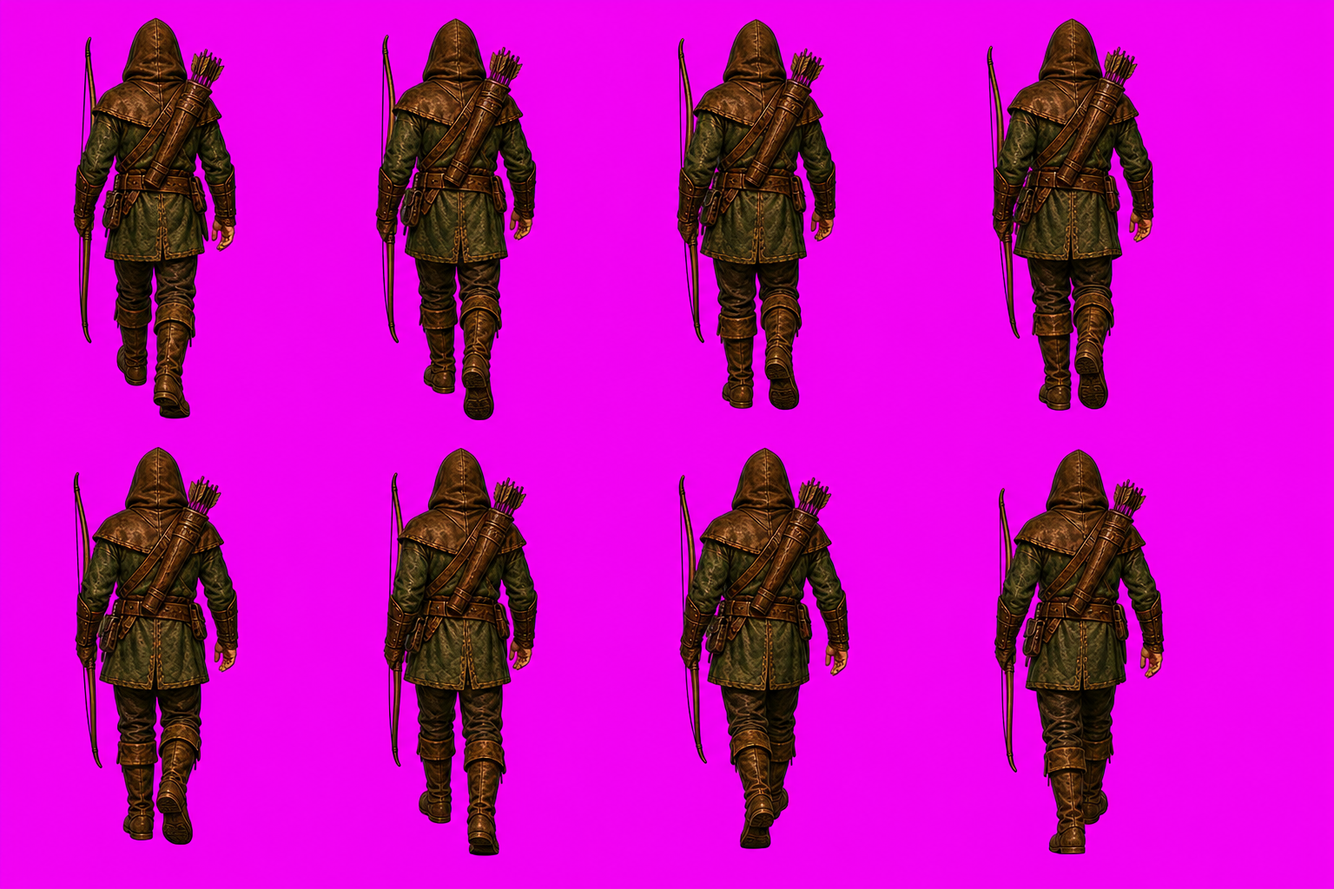
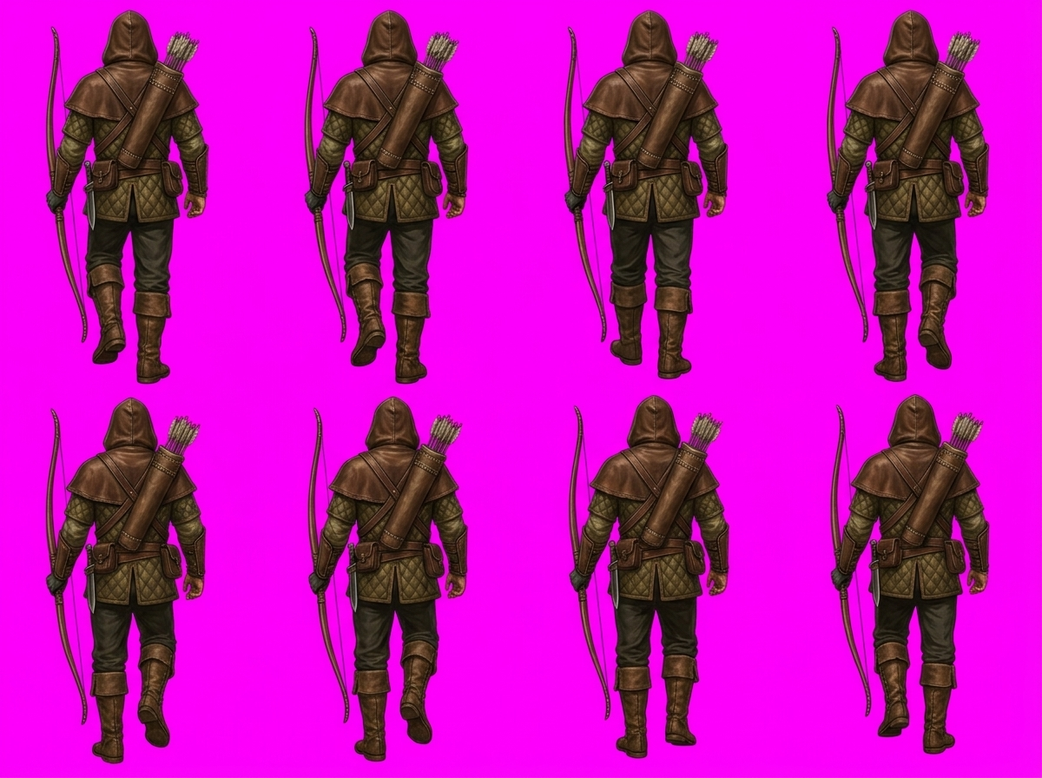
Dungeon crawler v78: the hunter repainted with a real stride; stride_check tool; skill notes
Claude-Session: https://claude.ai/code/session_01NpeYVwYy5uGAXmDhbForw5

diff --git a/martin/dungeon-crawler-01/catalog.html b/martin/dungeon-crawler-01/catalog.html
@@ -150,7 +150,7 @@
 </main>
 <footer id="footer"></footer>
 <script>
-const D = {"version":77,"mons":{"skeleton":{"name":"Skeleton Warrior","scale":1,"hp":26,"dmg":[3,6],"armor":5,"speed":2.71,"reach":1.1,"cd":1.2,"xp":16,"r":0.32,"minD":1,"w":3,"perDepth":[{"hp":31,"dmg":[3.6,7.2],"armor":5,"speed":2.3,"xp":16,"limit":null,"champ":false},{"hp":35,"dmg":[4,8.1],"armor":8,"speed":2.34,"xp":19,"limit":null,"champ":false},{"hp":39,"dmg":[4.5,9],"armor":11,"speed":2.37,"xp":22,"limit":null,"champ":false},{"hp":44,"dmg":[5.1,10.1],"armor":14,"speed":2.41,"xp":26,"limit":null,"champ":false},{"hp":49,"dmg":[5.7,11.3],"armor":17,"speed":2.44,"xp":30,"limit":null,"champ":true},{"hp":55,"dmg":[6.3,12.7],"armor":20,"speed":2.48,"xp":35,"limit":null,"champ":true},{"hp":62,"dmg":[7.1,14.2],"armor":23,"speed":2.51,"xp":41,"limit":null,"champ":true},{"hp":69,"dmg":[8,15.9],"armor":26,"speed":2.55,"xp":48,"limit":null,"champ":true},{"hp":77,"dmg":[8.9,17.8],"armor":29,"speed":2.58,"xp":56,"limit":null,"champ":true},{"hp":87,"dmg":[10,20],"armor":32,"speed":2.61,"xp":66,"limit":null,"champ":true},{"hp":97,"dmg":[11.2,22.4],"armor":35,"speed":2.65,"xp":77,"limit":null,"champ":true},{"hp":109,"dmg":[12.5,25],"armor":38,"speed":2.68,"xp":90,"limit":null,"champ":true}]},"ghoul":{"name":"Ghoul","scale":0.95,"hp":20,"dmg":[2,5],"armor":2,"speed":3.3,"reach":1,"cd":0.9,"xp":13,"r":0.3,"minD":1,"w":3,"perDepth":[{"hp":24,"dmg":[2.4,6],"armor":2,"speed":2.8,"xp":13,"limit":1,"champ":false},{"hp":27,"dmg":[2.7,6.7],"armor":5,"speed":2.85,"xp":15,"limit":2,"champ":false},{"hp":30,"dmg":[3,7.5],"armor":8,"speed":2.89,"xp":18,"limit":2,"champ":false},{"hp":34,"dmg":[3.4,8.4],"armor":11,"speed":2.93,"xp":21,"limit":2,"champ":false},{"hp":38,"dmg":[3.8,9.4],"armor":14,"speed":2.97,"xp":24,"limit":null,"champ":true},{"hp":42,"dmg":[4.2,10.6],"armor":17,"speed":3.02,"xp":29,"limit":null,"champ":true},{"hp":47,"dmg":[4.7,11.8],"armor":20,"speed":3.06,"xp":33,"limit":null,"champ":true},{"hp":53,"dmg":[5.3,13.3],"armor":23,"speed":3.1,"xp":39,"limit":null,"champ":true},{"hp":59,"dmg":[5.9,14.9],"armor":26,"speed":3.14,"xp":46,"limit":null,"champ":true},{"hp":67,"dmg":[6.7,16.6],"armor":29,"speed":3.18,"xp":53,"limit":null,"champ":true},{"hp":75,"dmg":[7.5,18.6],"armor":32,"speed":3.23,"xp":62,"limit":null,"champ":true},{"hp":83,"dmg":[8.3,20.9],"armor":35,"speed":3.27,"xp":73,"limit":null,"champ":true}]},"spider":{"name":"Cave Spider","scale":0.78,"hp":15,"dmg":[2,4],"armor":1,"speed":3.9,"reach":1,"cd":0.8,"xp":11,"r":0.34,"minD":1,"w":2,"perDepth":[{"hp":18,"dmg":[2.4,4.8],"armor":1,"speed":3.31,"xp":11,"limit":null,"champ":false},{"hp":20,"dmg":[2.7,5.4],"armor":4,"speed":3.36,"xp":13,"limit":null,"champ":false},{"hp":23,"dmg":[3,6],"armor":7,"speed":3.41,"xp":15,"limit":null,"champ":false},{"hp":25,"dmg":[3.4,6.7],"armor":10,"speed":3.46,"xp":18,"limit":null,"champ":false},{"hp":28,"dmg":[3.8,7.6],"armor":13,"speed":3.51,"xp":21,"limit":null,"champ":true},{"hp":32,"dmg":[4.2,8.5],"armor":16,"speed":3.56,"xp":24,"limit":null,"champ":true},{"hp":36,"dmg":[4.7,9.5],"armor":19,"speed":3.61,"xp":28,"limit":null,"champ":true},{"hp":40,"dmg":[5.3,10.6],"armor":22,"speed":3.66,"xp":33,"limit":null,"champ":true},{"hp":45,"dmg":[5.9,11.9],"armor":25,"speed":3.71,"xp":39,"limit":null,"champ":true},{"hp":50,"dmg":[6.7,13.3],"armor":28,"speed":3.76,"xp":45,"limit":null,"champ":true},{"hp":56,"dmg":[7.5,14.9],"armor":31,"speed":3.81,"xp":53,"limit":null,"champ":true},{"hp":63,"dmg":[8.3,16.7],"armor":34,"speed":3.86,"xp":62,"limit":null,"champ":true}]},"wraith":{"name":"Wraith","scale":1,"hp":22,"dmg":[4,7],"armor":3,"speed":2.3,"ranged":true,"range":6.5,"cd":1.9,"xp":22,"r":0.3,"minD":4,"w":2,"float":true,"perDepth":[{"hp":26,"dmg":[4.8,8.4],"armor":3,"speed":1.95,"xp":22,"limit":null,"champ":false},{"hp":30,"dmg":[5.4,9.4],"armor":6,"speed":1.98,"xp":26,"limit":null,"champ":false},{"hp":33,"dmg":[6,10.5],"armor":9,"speed":2.01,"xp":30,"limit":null,"champ":false},{"hp":37,"dmg":[6.7,11.8],"armor":12,"speed":2.04,"xp":35,"limit":1,"champ":false},{"hp":42,"dmg":[7.6,13.2],"armor":15,"speed":2.07,"xp":41,"limit":2,"champ":false},{"hp":47,"dmg":[8.5,14.8],"armor":18,"speed":2.1,"xp":48,"limit":2,"champ":false},{"hp":52,"dmg":[9.5,16.6],"armor":21,"speed":2.13,"xp":56,"limit":2,"champ":false},{"hp":58,"dmg":[10.6,18.6],"armor":24,"speed":2.16,"xp":66,"limit":null,"champ":true},{"hp":65,"dmg":[11.9,20.8],"armor":27,"speed":2.19,"xp":77,"limit":null,"champ":true},{"hp":73,"dmg":[13.3,23.3],"armor":30,"speed":2.22,"xp":90,"limit":null,"champ":true},{"hp":82,"dmg":[14.9,26.1],"armor":33,"speed":2.25,"xp":106,"limit":null,"champ":true},{"hp":92,"dmg":[16.7,29.2],"armor":36,"speed":2.28,"xp":124,"limit":null,"champ":true}]},"demon":{"name":"Pit Demon","scale":1.3,"hp":75,"dmg":[8,13],"armor":12,"speed":2.24,"reach":1.35,"cd":1.5,"xp":60,"r":0.45,"minD":5,"w":1,"perDepth":[{"hp":90,"dmg":[9.6,15.6],"armor":12,"speed":1.9,"xp":60,"limit":null,"champ":false},{"hp":101,"dmg":[10.8,17.5],"armor":15,"speed":1.93,"xp":70,"limit":null,"champ":false},{"hp":113,"dmg":[12,19.6],"armor":18,"speed":1.96,"xp":82,"limit":null,"champ":false},{"hp":126,"dmg":[13.5,21.9],"armor":21,"speed":1.99,"xp":96,"limit":null,"champ":false},{"hp":142,"dmg":[15.1,24.5],"armor":24,"speed":2.02,"xp":112,"limit":1,"champ":false},{"hp":159,"dmg":[16.9,27.5],"armor":27,"speed":2.05,"xp":132,"limit":2,"champ":false},{"hp":178,"dmg":[18.9,30.8],"armor":30,"speed":2.08,"xp":154,"limit":2,"champ":false},{"hp":199,"dmg":[21.2,34.5],"armor":33,"speed":2.1,"xp":180,"limit":2,"champ":false},{"hp":223,"dmg":[23.8,38.6],"armor":36,"speed":2.13,"xp":211,"limit":null,"champ":true},{"hp":250,"dmg":[26.6,43.3],"armor":39,"speed":2.16,"xp":247,"limit":null,"champ":true},{"hp":280,"dmg":[29.8,48.5],"armor":42,"speed":2.19,"xp":288,"limit":null,"champ":true},{"hp":313,"dmg":[33.4,54.3],"armor":45,"speed":2.22,"xp":337,"limit":null,"champ":true}]}},"tier":{"normal":{"size":1,"hp":1,"dmg":1,"xp":1,"armor":0},"champ":{"size":1.15,"hp":2.5,"dmg":2,"xp":4,"armor":0},"boss":{"size":1.35,"hp":8,"dmg":3,"xp":12,"armor":4}},"monBase":1.2,"monScale":1.12,"monSpeed":0.85,"newLimit":[1,2,2,2],"champAfter":4,"bossFrom":6,"bossRoomFrom":5,"loneAt":{"3":"wraith","4":"demon"},"bases":{"shortsword":{"name":"Short Sword","slot":"weapon","kind":"sword","min":4,"max":8,"cd":0.55,"lvl":1},"longsword":{"name":"Longsword","slot":"weapon","kind":"sword","min":7,"max":14,"cd":0.65,"lvl":2},"broadsword":{"name":"Broadsword","slot":"weapon","kind":"sword","min":13,"max":22,"cd":0.7,"lvl":5},"greatsword":{"name":"Blackened Greatsword","slot":"weapon","kind":"sword","min":20,"max":34,"cd":0.85,"lvl":8},"bastardsword":{"name":"Bastard Sword","slot":"weapon","kind":"sword","min":24,"max":40,"cd":0.8,"lvl":11},"knightsword":{"name":"Knight's Greatsword","slot":"weapon","kind":"sword","min":32,"max":52,"cd":0.85,"lvl":15},"handaxe":{"name":"Hand Axe","slot":"weapon","kind":"axe","min":5,"max":10,"cd":0.7,"lvl":1},"beardedaxe":{"name":"Bearded Axe","slot":"weapon","kind":"axe","min":10,"max":18,"cd":0.8,"lvl":4},"battleaxe":{"name":"Battle Axe","slot":"weapon","kind":"axe","min":17,"max":29,"cd":0.9,"lvl":7},"execaxe":{"name":"Executioner's Axe","slot":"weapon","kind":"axe","min":26,"max":46,"cd":1.05,"lvl":9},"greataxe":{"name":"Great Axe","slot":"weapon","kind":"axe","min":34,"max":58,"cd":1.05,"lvl":14},"shortbow":{"name":"Short Bow","slot":"weapon","kind":"bow","min":3,"max":7,"cd":0.6,"lvl":1},"huntingbow":{"name":"Hunting Bow","slot":"weapon","kind":"bow","min":5,"max":10,"cd":0.65,"lvl":2},"longbow":{"name":"Yew Longbow","slot":"weapon","kind":"bow","min":9,"max":16,"cd":0.75,"lvl":5},"bonebow":{"name":"Bone Bow","slot":"weapon","kind":"bow","min":14,"max":25,"cd":0.9,"lvl":8},"compositebow":{"name":"Composite Bow","slot":"weapon","kind":"bow","min":18,"max":31,"cd":0.85,"lvl":11},"warbow":{"name":"War Bow","slot":"weapon","kind":"bow","min":25,"max":42,"cd":0.9,"lvl":15},"leathercap":{"name":"Leather Cap","slot":"head","armor":3,"lvl":1},"ironhelm":{"name":"Iron Helm","slot":"head","armor":7,"lvl":4},"greathelm":{"name":"Horned Great Helm","slot":"head","armor":13,"lvl":8},"visoredhelm":{"name":"Visored Helm","slot":"head","armor":19,"lvl":12},"leathertunic":{"name":"Leather Tunic","slot":"chest","armor":6,"lvl":1},"studded":{"name":"Studded Leather","slot":"chest","armor":11,"lvl":4},"chainmail":{"name":"Chain Mail","slot":"chest","armor":18,"lvl":7},"platemail":{"name":"Plate Cuirass","slot":"chest","armor":28,"lvl":11},"fullplate":{"name":"Full Plate","slot":"chest","armor":36,"lvl":15},"leathergloves":{"name":"Leather Gloves","slot":"hands","armor":2,"lvl":1},"gauntlets":{"name":"Iron Gauntlets","slot":"hands","armor":6,"lvl":4},"platedgloves":{"name":"Plated Gauntlets","slot":"hands","armor":10,"lvl":9},"heavygloves":{"name":"Heavy Gauntlets","slot":"hands","armor":13,"lvl":14},"leatherboots":{"name":"Leather Boots","slot":"feet","armor":2,"implicit":{"speed":5},"lvl":1},"ironboots":{"name":"Plated Boots","slot":"feet","armor":6,"lvl":4},"greaves":{"name":"Iron Greaves","slot":"feet","armor":10,"lvl":9},"heavygreaves":{"name":"Heavy Greaves","slot":"feet","armor":13,"lvl":14},"silverring":{"name":"Silver Ring","slot":"ring","lvl":1},"rubyring":{"name":"Ruby Ring","slot":"ring","lvl":1},"skullring":{"name":"Grave Ring","slot":"ring","lvl":1},"sapphireamulet":{"name":"Sapphire Amulet","slot":"amulet","lvl":1},"bloodamulet":{"name":"Blood Amulet","slot":"amulet","lvl":1},"bonetalisman":{"name":"Bone Talisman","slot":"amulet","lvl":1}},"kinds":{"sword":{"reach":1.55,"arc":0.9,"label":"Sword (melee)"},"axe":{"reach":1.45,"arc":1.25,"label":"Axe (melee, wide cleave)"},"bow":{"reach":12,"label":"Bow (ranged)"},"bomb":{"reach":7,"label":"Fire bomb (thrown)"},"fist":{"reach":1.25,"arc":0.8,"label":"Bare hands"}},"slotLabel":{"weapon":"Weapon","head":"Helm","chest":"Armor","hands":"Gloves","feet":"Boots","ring":"Ring","ring1":"Ring","ring2":"Ring","amulet":"Amulet"},"statLabel":{"str":"Strength","dex":"Dexterity","vit":"Vitality","hp":"Life","regen":"Life regen / s","armor":"Armor","crit":"% Critical chance","dmg":"% Damage","speed":"% Move speed"},"affix":[{"k":"str","tiers":[["Mighty","of the Bear",1,4],["Brutal","of the Boar",5,8],["Titanic","of the Giant",9,12]]},{"k":"dex","tiers":[["Nimble","of the Fox",1,4],["Deft","of the Lynx",5,8],["Lithe","of the Falcon",9,12]]},{"k":"vit","tiers":[["Sturdy","of the Ox",1,4],["Stalwart","of the Bull",5,8],["Unyielding","of the Mountain",9,12]]},{"k":"hp","tiers":[["Hale","of Life",5,16],["Robust","of Vigor",17,30],["Vigorous","of Endurance",31,45]]},{"k":"armor","tiers":[["Warded","of Iron",2,8],["Fortified","of Steel",9,15],["Impregnable","of Adamant",16,22]],"noWeapon":true},{"k":"crit","tiers":[["Keen","of Precision",1,3],["Precise","of Striking",3,5],["Deadly","of Slaying",5,8]]},{"k":"dmg","tiers":[["Cruel","of Slaughter",5,15],["Savage","of Carnage",16,26],["Merciless","of Ruin",27,38]]},{"k":"speed","tiers":[["Swift","of Haste",3,6],["Fleet","of Speed",7,10],["Windborne","of the Wind",11,15]],"only":"feet"}],"affixFrom":[1,7,12],"affixW":[1,2,4],"jewelMult":2,"potions":{"health":{"name":"Health Potion","plural":"health potions","color":"#e06a5a","glow":"224,90,80","filter":"","desc":"Restores 44% of your life."},"ironskin":{"name":"Iron Skin Potion","plural":"iron skin potions","color":"#a9c1d6","glow":"150,180,210","filter":"hue-rotate(195deg) saturate(0.55) brightness(1.2)","desc":"Armor ×3 + 60 for 20 seconds."}},"bomb":{"name":"Fire Bomb","plural":"fire bombs","cd":1,"range":7,"color":"#e8893a","glow":"232,137,58","from":2},"fire":{"r":1.5,"dur":12,"dps":10,"tick":0.5,"fade":1.5,"scorch":20,"after":10,"afterDps":5,"catchMon":1.5},"iron":{"mult":3,"add":60,"dur":20},"heal":0.44,"magicFrom":4,"lootPlus":{"champ":2,"bigChest":2,"boss":3,"guardian":4},"rareFrom":8,"ringFrom":4,"amuletFrom":6,"magicOdds":0.25,"rareOdds":0.1,"meta":{"characters":{"hero":{"fw":144,"fh":152,"frames":8,"idle":3,"footY":128,"fpt":5},"skeleton":{"fw":176,"fh":152,"frames":8,"idle":3,"footY":128,"fpt":5},"ghoul":{"fw":160,"fh":162,"frames":8,"idle":3,"footY":138,"fpt":5.5},"spider":{"fw":188,"fh":152,"frames":4,"footY":128,"fpt":2},"wraith":{"fw":102,"fh":152,"frames":4,"footY":128,"fpt":2},"demon":{"fw":150,"fh":152,"frames":4,"footY":128,"fpt":2},"keeper1":{"fw":160,"fh":152,"frames":8,"idle":3,"footY":128,"fpt":5},"keeper2":{"fw":168,"fh":152,"frames":8,"idle":3,"footY":128,"fpt":5},"keeper3":{"fw":168,"fh":160,"frames":8,"idle":3,"footY":136,"fpt":5},"keeper4":{"fw":160,"fh":152,"frames":8,"idle":3,"footY":128,"fpt":5.5},"hunter":{"fw":176,"fh":152,"frames":8,"idle":3,"footY":128,"fpt":5},"huntress":{"fw":176,"fh":152,"frames":8,"idle":3,"footY":128,"fpt":5},"girl":{"fw":144,"fh":152,"frames":8,"idle":3,"footY":128,"fpt":5},"boy":{"fw":144,"fh":152,"frames":8,"idle":3,"footY":128,"fpt":5},"duke":{"fw":176,"fh":152,"frames":8,"idle":3,"footY":128,"fpt":5},"princess":{"fw":160,"fh":152,"frames":8,"idle":3,"footY":128,"fpt":5},"smithess":{"fw":168,"fh":152,"frames":8,"idle":3,"footY":128,"fpt":5},"sorcerer":{"fw":176,"fh":176,"frames":8,"idle":3,"footY":152,"fpt":5.5}},"items":{"shortsword":[0,0],"longsword":[96,0],"greatsword":[192,0],"handaxe":[288,0],"battleaxe":[384,0],"execaxe":[480,0],"shortbow":[0,96],"longbow":[96,96],"bonebow":[192,96],"leathercap":[288,96],"greathelm":[384,96],"leathertunic":[480,96],"platemail":[0,192],"leathergloves":[96,192],"gauntlets":[192,192],"leatherboots":[288,192],"ironboots":[384,192],"silverring":[480,192],"rubyring":[0,288],"skullring":[96,288],"sapphireamulet":[192,288],"bloodamulet":[288,288],"bonetalisman":[384,288],"potion":[480,288],"broadsword":[0,384],"bastardsword":[96,384],"knightsword":[192,384],"beardedaxe":[288,384],"greataxe":[384,384],"huntingbow":[480,384],"ironhelm":[0,480],"visoredhelm":[96,480],"studded":[192,480],"platedgloves":[288,480],"heavygloves":[384,480],"chainmail":[480,480],"quiver":[0,576],"warbow":[96,576],"compositebow":[192,576],"fullplate":[288,576],"greaves":[384,576],"heavygreaves":[480,576],"firebomb1":[0,672],"firebomb2":[96,672],"firebomb3":[192,672],"firebomb4":[288,672],"firebomb5":[384,672],"firebomb6":[480,672]},"props":{"chest":[0,0,132,141],"chestopen":[134,0,144,171],"door":[280,0,131,207],"stairs":[413,0,156,127],"brazier":[571,0,104,167],"bones":[677,0,148,117],"urn":[827,0,95,151],"gold":[924,0,127,90],"throne":[1053,0,129,206],"altar":[1184,0,153,166],"candelabrum":[1339,0,84,196],"skullpile":[1425,0,166,136],"banner":[1593,0,84,206],"pillar":[1679,0,98,191],"sarcophagus":[1779,0,154,144],"bonesused":[0,209,200,103],"doorA":[202,209,192,256],"doorB":[396,209,192,256],"keeper1":[0,467,104,230],"keeper2":[106,467,108,220],"keeper3":[216,467,105,225],"keeper4":[323,467,98,228],"mtable":[423,467,230,257],"mrack":[655,467,136,230],"mchest":[793,467,170,218],"mshelf":[965,467,190,228],"mcrates":[1157,467,190,222],"mbarrel":[1349,467,100,190],"mlantern":[1451,467,65,230],"mrug":[1518,467,260,145]},"iconSize":96,"surface":{"tree1":[0,0,248,400,224],"tree2":[250,0,148,420,319],"tree3":[400,0,159,340,220],"tree4":[561,0,153,360,177],"bush1":[716,0,94,96],"bush2":[812,0,96,92],"bush3":[910,0,102,70],"bush4":[1014,0,96,100],"flowers":[1112,0,63,56],"rocks":[1177,0,71,50],"mushrooms":[1250,0,73,54],"tuft":[1325,0,65,70],"crypt":[1392,0,540,600]}},"heroSpeed":4.2,"depths":12,"propsW":1935,"itemsW":576,"levels":[{"bossRoom":false,"boss":false,"big":false},{"bossRoom":false,"boss":false,"big":false},{"bossRoom":false,"boss":false,"big":true},{"bossRoom":false,"boss":false,"big":false},{"bossRoom":true,"boss":false,"big":true},{"bossRoom":true,"boss":true,"big":false},{"bossRoom":true,"boss":true,"big":true},{"bossRoom":true,"boss":true,"big":false},{"bossRoom":true,"boss":true,"big":true},{"bossRoom":true,"boss":true,"big":false},{"bossRoom":true,"boss":true,"big":true},{"bossRoom":true,"boss":true,"big":false}]};
+const D = {"version":78,"mons":{"skeleton":{"name":"Skeleton Warrior","scale":1,"hp":26,"dmg":[3,6],"armor":5,"speed":2.71,"reach":1.1,"cd":1.2,"xp":16,"r":0.32,"minD":1,"w":3,"perDepth":[{"hp":31,"dmg":[3.6,7.2],"armor":5,"speed":2.3,"xp":16,"limit":null,"champ":false},{"hp":35,"dmg":[4,8.1],"armor":8,"speed":2.34,"xp":19,"limit":null,"champ":false},{"hp":39,"dmg":[4.5,9],"armor":11,"speed":2.37,"xp":22,"limit":null,"champ":false},{"hp":44,"dmg":[5.1,10.1],"armor":14,"speed":2.41,"xp":26,"limit":null,"champ":false},{"hp":49,"dmg":[5.7,11.3],"armor":17,"speed":2.44,"xp":30,"limit":null,"champ":true},{"hp":55,"dmg":[6.3,12.7],"armor":20,"speed":2.48,"xp":35,"limit":null,"champ":true},{"hp":62,"dmg":[7.1,14.2],"armor":23,"speed":2.51,"xp":41,"limit":null,"champ":true},{"hp":69,"dmg":[8,15.9],"armor":26,"speed":2.55,"xp":48,"limit":null,"champ":true},{"hp":77,"dmg":[8.9,17.8],"armor":29,"speed":2.58,"xp":56,"limit":null,"champ":true},{"hp":87,"dmg":[10,20],"armor":32,"speed":2.61,"xp":66,"limit":null,"champ":true},{"hp":97,"dmg":[11.2,22.4],"armor":35,"speed":2.65,"xp":77,"limit":null,"champ":true},{"hp":109,"dmg":[12.5,25],"armor":38,"speed":2.68,"xp":90,"limit":null,"champ":true}]},"ghoul":{"name":"Ghoul","scale":0.95,"hp":20,"dmg":[2,5],"armor":2,"speed":3.3,"reach":1,"cd":0.9,"xp":13,"r":0.3,"minD":1,"w":3,"perDepth":[{"hp":24,"dmg":[2.4,6],"armor":2,"speed":2.8,"xp":13,"limit":1,"champ":false},{"hp":27,"dmg":[2.7,6.7],"armor":5,"speed":2.85,"xp":15,"limit":2,"champ":false},{"hp":30,"dmg":[3,7.5],"armor":8,"speed":2.89,"xp":18,"limit":2,"champ":false},{"hp":34,"dmg":[3.4,8.4],"armor":11,"speed":2.93,"xp":21,"limit":2,"champ":false},{"hp":38,"dmg":[3.8,9.4],"armor":14,"speed":2.97,"xp":24,"limit":null,"champ":true},{"hp":42,"dmg":[4.2,10.6],"armor":17,"speed":3.02,"xp":29,"limit":null,"champ":true},{"hp":47,"dmg":[4.7,11.8],"armor":20,"speed":3.06,"xp":33,"limit":null,"champ":true},{"hp":53,"dmg":[5.3,13.3],"armor":23,"speed":3.1,"xp":39,"limit":null,"champ":true},{"hp":59,"dmg":[5.9,14.9],"armor":26,"speed":3.14,"xp":46,"limit":null,"champ":true},{"hp":67,"dmg":[6.7,16.6],"armor":29,"speed":3.18,"xp":53,"limit":null,"champ":true},{"hp":75,"dmg":[7.5,18.6],"armor":32,"speed":3.23,"xp":62,"limit":null,"champ":true},{"hp":83,"dmg":[8.3,20.9],"armor":35,"speed":3.27,"xp":73,"limit":null,"champ":true}]},"spider":{"name":"Cave Spider","scale":0.78,"hp":15,"dmg":[2,4],"armor":1,"speed":3.9,"reach":1,"cd":0.8,"xp":11,"r":0.34,"minD":1,"w":2,"perDepth":[{"hp":18,"dmg":[2.4,4.8],"armor":1,"speed":3.31,"xp":11,"limit":null,"champ":false},{"hp":20,"dmg":[2.7,5.4],"armor":4,"speed":3.36,"xp":13,"limit":null,"champ":false},{"hp":23,"dmg":[3,6],"armor":7,"speed":3.41,"xp":15,"limit":null,"champ":false},{"hp":25,"dmg":[3.4,6.7],"armor":10,"speed":3.46,"xp":18,"limit":null,"champ":false},{"hp":28,"dmg":[3.8,7.6],"armor":13,"speed":3.51,"xp":21,"limit":null,"champ":true},{"hp":32,"dmg":[4.2,8.5],"armor":16,"speed":3.56,"xp":24,"limit":null,"champ":true},{"hp":36,"dmg":[4.7,9.5],"armor":19,"speed":3.61,"xp":28,"limit":null,"champ":true},{"hp":40,"dmg":[5.3,10.6],"armor":22,"speed":3.66,"xp":33,"limit":null,"champ":true},{"hp":45,"dmg":[5.9,11.9],"armor":25,"speed":3.71,"xp":39,"limit":null,"champ":true},{"hp":50,"dmg":[6.7,13.3],"armor":28,"speed":3.76,"xp":45,"limit":null,"champ":true},{"hp":56,"dmg":[7.5,14.9],"armor":31,"speed":3.81,"xp":53,"limit":null,"champ":true},{"hp":63,"dmg":[8.3,16.7],"armor":34,"speed":3.86,"xp":62,"limit":null,"champ":true}]},"wraith":{"name":"Wraith","scale":1,"hp":22,"dmg":[4,7],"armor":3,"speed":2.3,"ranged":true,"range":6.5,"cd":1.9,"xp":22,"r":0.3,"minD":4,"w":2,"float":true,"perDepth":[{"hp":26,"dmg":[4.8,8.4],"armor":3,"speed":1.95,"xp":22,"limit":null,"champ":false},{"hp":30,"dmg":[5.4,9.4],"armor":6,"speed":1.98,"xp":26,"limit":null,"champ":false},{"hp":33,"dmg":[6,10.5],"armor":9,"speed":2.01,"xp":30,"limit":null,"champ":false},{"hp":37,"dmg":[6.7,11.8],"armor":12,"speed":2.04,"xp":35,"limit":1,"champ":false},{"hp":42,"dmg":[7.6,13.2],"armor":15,"speed":2.07,"xp":41,"limit":2,"champ":false},{"hp":47,"dmg":[8.5,14.8],"armor":18,"speed":2.1,"xp":48,"limit":2,"champ":false},{"hp":52,"dmg":[9.5,16.6],"armor":21,"speed":2.13,"xp":56,"limit":2,"champ":false},{"hp":58,"dmg":[10.6,18.6],"armor":24,"speed":2.16,"xp":66,"limit":null,"champ":true},{"hp":65,"dmg":[11.9,20.8],"armor":27,"speed":2.19,"xp":77,"limit":null,"champ":true},{"hp":73,"dmg":[13.3,23.3],"armor":30,"speed":2.22,"xp":90,"limit":null,"champ":true},{"hp":82,"dmg":[14.9,26.1],"armor":33,"speed":2.25,"xp":106,"limit":null,"champ":true},{"hp":92,"dmg":[16.7,29.2],"armor":36,"speed":2.28,"xp":124,"limit":null,"champ":true}]},"demon":{"name":"Pit Demon","scale":1.3,"hp":75,"dmg":[8,13],"armor":12,"speed":2.24,"reach":1.35,"cd":1.5,"xp":60,"r":0.45,"minD":5,"w":1,"perDepth":[{"hp":90,"dmg":[9.6,15.6],"armor":12,"speed":1.9,"xp":60,"limit":null,"champ":false},{"hp":101,"dmg":[10.8,17.5],"armor":15,"speed":1.93,"xp":70,"limit":null,"champ":false},{"hp":113,"dmg":[12,19.6],"armor":18,"speed":1.96,"xp":82,"limit":null,"champ":false},{"hp":126,"dmg":[13.5,21.9],"armor":21,"speed":1.99,"xp":96,"limit":null,"champ":false},{"hp":142,"dmg":[15.1,24.5],"armor":24,"speed":2.02,"xp":112,"limit":1,"champ":false},{"hp":159,"dmg":[16.9,27.5],"armor":27,"speed":2.05,"xp":132,"limit":2,"champ":false},{"hp":178,"dmg":[18.9,30.8],"armor":30,"speed":2.08,"xp":154,"limit":2,"champ":false},{"hp":199,"dmg":[21.2,34.5],"armor":33,"speed":2.1,"xp":180,"limit":2,"champ":false},{"hp":223,"dmg":[23.8,38.6],"armor":36,"speed":2.13,"xp":211,"limit":null,"champ":true},{"hp":250,"dmg":[26.6,43.3],"armor":39,"speed":2.16,"xp":247,"limit":null,"champ":true},{"hp":280,"dmg":[29.8,48.5],"armor":42,"speed":2.19,"xp":288,"limit":null,"champ":true},{"hp":313,"dmg":[33.4,54.3],"armor":45,"speed":2.22,"xp":337,"limit":null,"champ":true}]}},"tier":{"normal":{"size":1,"hp":1,"dmg":1,"xp":1,"armor":0},"champ":{"size":1.15,"hp":2.5,"dmg":2,"xp":4,"armor":0},"boss":{"size":1.35,"hp":8,"dmg":3,"xp":12,"armor":4}},"monBase":1.2,"monScale":1.12,"monSpeed":0.85,"newLimit":[1,2,2,2],"champAfter":4,"bossFrom":6,"bossRoomFrom":5,"loneAt":{"3":"wraith","4":"demon"},"bases":{"shortsword":{"name":"Short Sword","slot":"weapon","kind":"sword","min":4,"max":8,"cd":0.55,"lvl":1},"longsword":{"name":"Longsword","slot":"weapon","kind":"sword","min":7,"max":14,"cd":0.65,"lvl":2},"broadsword":{"name":"Broadsword","slot":"weapon","kind":"sword","min":13,"max":22,"cd":0.7,"lvl":5},"greatsword":{"name":"Blackened Greatsword","slot":"weapon","kind":"sword","min":20,"max":34,"cd":0.85,"lvl":8},"bastardsword":{"name":"Bastard Sword","slot":"weapon","kind":"sword","min":24,"max":40,"cd":0.8,"lvl":11},"knightsword":{"name":"Knight's Greatsword","slot":"weapon","kind":"sword","min":32,"max":52,"cd":0.85,"lvl":15},"handaxe":{"name":"Hand Axe","slot":"weapon","kind":"axe","min":5,"max":10,"cd":0.7,"lvl":1},"beardedaxe":{"name":"Bearded Axe","slot":"weapon","kind":"axe","min":10,"max":18,"cd":0.8,"lvl":4},"battleaxe":{"name":"Battle Axe","slot":"weapon","kind":"axe","min":17,"max":29,"cd":0.9,"lvl":7},"execaxe":{"name":"Executioner's Axe","slot":"weapon","kind":"axe","min":26,"max":46,"cd":1.05,"lvl":9},"greataxe":{"name":"Great Axe","slot":"weapon","kind":"axe","min":34,"max":58,"cd":1.05,"lvl":14},"shortbow":{"name":"Short Bow","slot":"weapon","kind":"bow","min":3,"max":7,"cd":0.6,"lvl":1},"huntingbow":{"name":"Hunting Bow","slot":"weapon","kind":"bow","min":5,"max":10,"cd":0.65,"lvl":2},"longbow":{"name":"Yew Longbow","slot":"weapon","kind":"bow","min":9,"max":16,"cd":0.75,"lvl":5},"bonebow":{"name":"Bone Bow","slot":"weapon","kind":"bow","min":14,"max":25,"cd":0.9,"lvl":8},"compositebow":{"name":"Composite Bow","slot":"weapon","kind":"bow","min":18,"max":31,"cd":0.85,"lvl":11},"warbow":{"name":"War Bow","slot":"weapon","kind":"bow","min":25,"max":42,"cd":0.9,"lvl":15},"leathercap":{"name":"Leather Cap","slot":"head","armor":3,"lvl":1},"ironhelm":{"name":"Iron Helm","slot":"head","armor":7,"lvl":4},"greathelm":{"name":"Horned Great Helm","slot":"head","armor":13,"lvl":8},"visoredhelm":{"name":"Visored Helm","slot":"head","armor":19,"lvl":12},"leathertunic":{"name":"Leather Tunic","slot":"chest","armor":6,"lvl":1},"studded":{"name":"Studded Leather","slot":"chest","armor":11,"lvl":4},"chainmail":{"name":"Chain Mail","slot":"chest","armor":18,"lvl":7},"platemail":{"name":"Plate Cuirass","slot":"chest","armor":28,"lvl":11},"fullplate":{"name":"Full Plate","slot":"chest","armor":36,"lvl":15},"leathergloves":{"name":"Leather Gloves","slot":"hands","armor":2,"lvl":1},"gauntlets":{"name":"Iron Gauntlets","slot":"hands","armor":6,"lvl":4},"platedgloves":{"name":"Plated Gauntlets","slot":"hands","armor":10,"lvl":9},"heavygloves":{"name":"Heavy Gauntlets","slot":"hands","armor":13,"lvl":14},"leatherboots":{"name":"Leather Boots","slot":"feet","armor":2,"implicit":{"speed":5},"lvl":1},"ironboots":{"name":"Plated Boots","slot":"feet","armor":6,"lvl":4},"greaves":{"name":"Iron Greaves","slot":"feet","armor":10,"lvl":9},"heavygreaves":{"name":"Heavy Greaves","slot":"feet","armor":13,"lvl":14},"silverring":{"name":"Silver Ring","slot":"ring","lvl":1},"rubyring":{"name":"Ruby Ring","slot":"ring","lvl":1},"skullring":{"name":"Grave Ring","slot":"ring","lvl":1},"sapphireamulet":{"name":"Sapphire Amulet","slot":"amulet","lvl":1},"bloodamulet":{"name":"Blood Amulet","slot":"amulet","lvl":1},"bonetalisman":{"name":"Bone Talisman","slot":"amulet","lvl":1}},"kinds":{"sword":{"reach":1.55,"arc":0.9,"label":"Sword (melee)"},"axe":{"reach":1.45,"arc":1.25,"label":"Axe (melee, wide cleave)"},"bow":{"reach":12,"label":"Bow (ranged)"},"bomb":{"reach":7,"label":"Fire bomb (thrown)"},"fist":{"reach":1.25,"arc":0.8,"label":"Bare hands"}},"slotLabel":{"weapon":"Weapon","head":"Helm","chest":"Armor","hands":"Gloves","feet":"Boots","ring":"Ring","ring1":"Ring","ring2":"Ring","amulet":"Amulet"},"statLabel":{"str":"Strength","dex":"Dexterity","vit":"Vitality","hp":"Life","regen":"Life regen / s","armor":"Armor","crit":"% Critical chance","dmg":"% Damage","speed":"% Move speed"},"affix":[{"k":"str","tiers":[["Mighty","of the Bear",1,4],["Brutal","of the Boar",5,8],["Titanic","of the Giant",9,12]]},{"k":"dex","tiers":[["Nimble","of the Fox",1,4],["Deft","of the Lynx",5,8],["Lithe","of the Falcon",9,12]]},{"k":"vit","tiers":[["Sturdy","of the Ox",1,4],["Stalwart","of the Bull",5,8],["Unyielding","of the Mountain",9,12]]},{"k":"hp","tiers":[["Hale","of Life",5,16],["Robust","of Vigor",17,30],["Vigorous","of Endurance",31,45]]},{"k":"armor","tiers":[["Warded","of Iron",2,8],["Fortified","of Steel",9,15],["Impregnable","of Adamant",16,22]],"noWeapon":true},{"k":"crit","tiers":[["Keen","of Precision",1,3],["Precise","of Striking",3,5],["Deadly","of Slaying",5,8]]},{"k":"dmg","tiers":[["Cruel","of Slaughter",5,15],["Savage","of Carnage",16,26],["Merciless","of Ruin",27,38]]},{"k":"speed","tiers":[["Swift","of Haste",3,6],["Fleet","of Speed",7,10],["Windborne","of the Wind",11,15]],"only":"feet"}],"affixFrom":[1,7,12],"affixW":[1,2,4],"jewelMult":2,"potions":{"health":{"name":"Health Potion","plural":"health potions","color":"#e06a5a","glow":"224,90,80","filter":"","desc":"Restores 44% of your life."},"ironskin":{"name":"Iron Skin Potion","plural":"iron skin potions","color":"#a9c1d6","glow":"150,180,210","filter":"hue-rotate(195deg) saturate(0.55) brightness(1.2)","desc":"Armor ×3 + 60 for 20 seconds."}},"bomb":{"name":"Fire Bomb","plural":"fire bombs","cd":1,"range":7,"color":"#e8893a","glow":"232,137,58","from":2},"fire":{"r":1.5,"dur":12,"dps":10,"tick":0.5,"fade":1.5,"scorch":20,"after":10,"afterDps":5,"catchMon":1.5},"iron":{"mult":3,"add":60,"dur":20},"heal":0.44,"magicFrom":4,"lootPlus":{"champ":2,"bigChest":2,"boss":3,"guardian":4},"rareFrom":8,"ringFrom":4,"amuletFrom":6,"magicOdds":0.25,"rareOdds":0.1,"meta":{"characters":{"hero":{"fw":144,"fh":152,"frames":8,"idle":3,"footY":128,"fpt":5},"skeleton":{"fw":176,"fh":152,"frames":8,"idle":3,"footY":128,"fpt":5},"ghoul":{"fw":160,"fh":162,"frames":8,"idle":3,"footY":138,"fpt":5.5},"spider":{"fw":188,"fh":152,"frames":4,"footY":128,"fpt":2},"wraith":{"fw":102,"fh":152,"frames":4,"footY":128,"fpt":2},"demon":{"fw":150,"fh":152,"frames":4,"footY":128,"fpt":2},"keeper1":{"fw":160,"fh":152,"frames":8,"idle":3,"footY":128,"fpt":5},"keeper2":{"fw":168,"fh":152,"frames":8,"idle":3,"footY":128,"fpt":5},"keeper3":{"fw":168,"fh":160,"frames":8,"idle":3,"footY":136,"fpt":5},"keeper4":{"fw":160,"fh":152,"frames":8,"idle":3,"footY":128,"fpt":5.5},"hunter":{"fw":176,"fh":152,"frames":8,"idle":3,"footY":128,"fpt":5},"huntress":{"fw":176,"fh":152,"frames":8,"idle":3,"footY":128,"fpt":5},"girl":{"fw":144,"fh":152,"frames":8,"idle":3,"footY":128,"fpt":5},"boy":{"fw":144,"fh":152,"frames":8,"idle":3,"footY":128,"fpt":5},"duke":{"fw":176,"fh":152,"frames":8,"idle":3,"footY":128,"fpt":5},"princess":{"fw":160,"fh":152,"frames":8,"idle":3,"footY":128,"fpt":5},"smithess":{"fw":168,"fh":152,"frames":8,"idle":3,"footY":128,"fpt":5},"sorcerer":{"fw":176,"fh":176,"frames":8,"idle":3,"footY":152,"fpt":5.5}},"items":{"shortsword":[0,0],"longsword":[96,0],"greatsword":[192,0],"handaxe":[288,0],"battleaxe":[384,0],"execaxe":[480,0],"shortbow":[0,96],"longbow":[96,96],"bonebow":[192,96],"leathercap":[288,96],"greathelm":[384,96],"leathertunic":[480,96],"platemail":[0,192],"leathergloves":[96,192],"gauntlets":[192,192],"leatherboots":[288,192],"ironboots":[384,192],"silverring":[480,192],"rubyring":[0,288],"skullring":[96,288],"sapphireamulet":[192,288],"bloodamulet":[288,288],"bonetalisman":[384,288],"potion":[480,288],"broadsword":[0,384],"bastardsword":[96,384],"knightsword":[192,384],"beardedaxe":[288,384],"greataxe":[384,384],"huntingbow":[480,384],"ironhelm":[0,480],"visoredhelm":[96,480],"studded":[192,480],"platedgloves":[288,480],"heavygloves":[384,480],"chainmail":[480,480],"quiver":[0,576],"warbow":[96,576],"compositebow":[192,576],"fullplate":[288,576],"greaves":[384,576],"heavygreaves":[480,576],"firebomb1":[0,672],"firebomb2":[96,672],"firebomb3":[192,672],"firebomb4":[288,672],"firebomb5":[384,672],"firebomb6":[480,672]},"props":{"chest":[0,0,132,141],"chestopen":[134,0,144,171],"door":[280,0,131,207],"stairs":[413,0,156,127],"brazier":[571,0,104,167],"bones":[677,0,148,117],"urn":[827,0,95,151],"gold":[924,0,127,90],"throne":[1053,0,129,206],"altar":[1184,0,153,166],"candelabrum":[1339,0,84,196],"skullpile":[1425,0,166,136],"banner":[1593,0,84,206],"pillar":[1679,0,98,191],"sarcophagus":[1779,0,154,144],"bonesused":[0,209,200,103],"doorA":[202,209,192,256],"doorB":[396,209,192,256],"keeper1":[0,467,104,230],"keeper2":[106,467,108,220],"keeper3":[216,467,105,225],"keeper4":[323,467,98,228],"mtable":[423,467,230,257],"mrack":[655,467,136,230],"mchest":[793,467,170,218],"mshelf":[965,467,190,228],"mcrates":[1157,467,190,222],"mbarrel":[1349,467,100,190],"mlantern":[1451,467,65,230],"mrug":[1518,467,260,145]},"iconSize":96,"surface":{"tree1":[0,0,248,400,224],"tree2":[250,0,148,420,319],"tree3":[400,0,159,340,220],"tree4":[561,0,153,360,177],"bush1":[716,0,94,96],"bush2":[812,0,96,92],"bush3":[910,0,102,70],"bush4":[1014,0,96,100],"flowers":[1112,0,63,56],"rocks":[1177,0,71,50],"mushrooms":[1250,0,73,54],"tuft":[1325,0,65,70],"crypt":[1392,0,540,600]}},"heroSpeed":4.2,"depths":12,"propsW":1935,"itemsW":576,"levels":[{"bossRoom":false,"boss":false,"big":false},{"bossRoom":false,"boss":false,"big":false},{"bossRoom":false,"boss":false,"big":true},{"bossRoom":false,"boss":false,"big":false},{"bossRoom":true,"boss":false,"big":true},{"bossRoom":true,"boss":true,"big":false},{"bossRoom":true,"boss":true,"big":true},{"bossRoom":true,"boss":true,"big":false},{"bossRoom":true,"boss":true,"big":true},{"bossRoom":true,"boss":true,"big":false},{"bossRoom":true,"boss":true,"big":true},{"bossRoom":true,"boss":true,"big":false}]};
 const $ = id => document.getElementById(id);
 const esc = s => String(s).replace(/[&<>"]/g, c => ({ '&': '&amp;', '<': '&lt;', '>': '&gt;', '"': '&quot;' })[c]);
 const M = D.meta, ICON = M.iconSize;

diff --git a/martin/dungeon-crawler-01/index.html b/martin/dungeon-crawler-01/index.html
@@ -387,7 +387,7 @@ const DIR_ROW = [0, 7, 6, 5, 4, 3, 2, 1];      // screen sector (S,SE,E,NE,N,NW,
 const $ = id => document.getElementById(id);
 // Game version, shown muted at the bottom right of the title screen. Increment it before every push, so a player
 // can tell whether the page is up to date (and regenerate catalog.html, see README).
-const VERSION = 77;
+const VERSION = 78;
 const rnd = Math.random;
 const ri = (a, b) => a + Math.floor(rnd() * (b - a + 1));
 const pick = a => a[Math.floor(rnd() * a.length)];

diff --git a/martin/dungeon-crawler-01/tools/stride_check.py b/martin/dungeon-crawler-01/tools/stride_check.py
@@ -1,0 +1,45 @@
+"""Stride check for an AI walk-cycle image (see the sprite-animation skill, "Verifying").
+
+  python stride_check.py <CHAR> <DIR> <raw.png>
+
+Compares the painted 4 x 2 image with the pose guide walk_cycle.py makes for that character and direction, per
+frame, on two numbers measured from the silhouette (flat magenta background):
+  spread  the width of the bottom 12 % of the figure (the feet) / its height. In the three-quarter views (SW, NW)
+          it tells the two halves of the stride apart: the feet are in line when the near leg leads and wide
+          apart when the far leg does (or the other way round). A held item reaching the feet (a bow tip) adds to it.
+  low     (lowest pixel left of the hips - lowest pixel right of them) / height: which foot is lower in the image.
+          In the front and back views (S, N) its sign must flip between frames 0-3 and 4-7, as in the guide.
+Each view is judged on the number that tells its two half-strides apart: spread in SW, W and NW (a frame is marked
+"!" when it is off the guide's by more than 0.2: a copy of the other half of the stride is off by 0.3 or more,
+while painted legs are often a little closer or wider than the mannequin's), low in S and N (marked when its sign
+differs from the guide's where the guide's is beyond +-0.08; painted feet differ less in height than the guide's).
+"""
+import sys, pathlib, tempfile
+import numpy as np
+from PIL import Image
+sys.path.insert(0, str(pathlib.Path(__file__).parent))
+import walk_cycle as wc
+
+def measure(path):
+    im = np.asarray(Image.open(path).convert('RGB')).astype(int); H, W, _ = im.shape
+    fg = ~((im[:, :, 0] > 190) & (im[:, :, 1] < 90) & (im[:, :, 2] > 190))
+    out = []
+    for f in range(8):
+        c = fg[(f // 4) * H // 2:(f // 4 + 1) * H // 2, (f % 4) * W // 4:(f % 4 + 1) * W // 4]
+        ys, xs = np.nonzero(c); top, bot = ys.min(), ys.max(); h = bot - top
+        band = c[bot - int(h * 0.12):bot + 1]; bx = np.nonzero(band.any(0))[0]
+        mid = int(np.nonzero(c[top + int(h * 0.45):top + int(h * 0.55)].any(0))[0].mean())
+        lb = np.nonzero(c[:, :mid].any(1))[0].max(); rb = np.nonzero(c[:, mid:].any(1))[0].max()
+        out.append(((bx.max() - bx.min()) / h, (lb - rb) / h))
+    return out
+
+if __name__ == '__main__':
+    char, d, raw = sys.argv[1], sys.argv[2], sys.argv[3]
+    wc.use(char); g = pathlib.Path(tempfile.mkdtemp()) / 'guide.png'
+    wc.STYLE.update(thick=1.9, left=(55, 55, 60), right=(175, 175, 180), mid=(115, 115, 120))
+    wc.guide(d, str(g), (255, 0, 255), False)
+    G, P = measure(g), measure(raw)
+    print('frame   guide spread/low   painted spread/low')
+    for f in range(8):
+        bad = (abs(G[f][0] - P[f][0]) > 0.2) if d in ('SW', 'W', 'NW') else (abs(G[f][1]) > 0.08 and np.sign(G[f][1]) != np.sign(P[f][1]))
+        print(f'  {f}       {G[f][0]:5.2f} {G[f][1]:+5.2f}        {P[f][0]:5.2f} {P[f][1]:+5.2f}  {"!" if bad else ""}')

diff --git a/martin/dungeon-crawler-01/README.md b/martin/dungeon-crawler-01/README.md
@@ -23,6 +23,7 @@ and equipping gear, and levelling up. All art is AI-generated (see [Assets](#ass
 | `assets/dirt.jpg` | 512 px seamless dirt texture for wall tops and wall faces toward solid ground (from `add_props.py`). |
 | `assets/meta.json` | Frame sizes and atlas coordinates written by the processing script (copied into `META` in `index.html`). |
 | `tools/process_art.py` | Turns the raw AI images for the 4-frame monsters, items, props and textures into the files above (chroma-key, slicing, packing). Imports `walk_cycle.py`. |
+| `tools/stride_check.py` | Checks an AI walk-cycle image against its pose guide, frame by frame (foot spread in the side views, which foot is lower in the front and back views), and marks frames that copy the other half of the stride. See [Walk cycles](#walk-cycles-hero-skeleton-ghoul). |
 | `tools/walk_cycle.py` | Walk-cycle pipeline (hero, skeleton, ghoul): renders the 3D stick-figure pose guides and placeholders, and builds the 8-frame sheets. |
 | `tools/add_items.py`, `tools/raw/items2.png`, `items3.png`, `firebombs.png` | Appends the icons of the newer item types (and a quiver), and the six fire bomb designs, to `assets/items.webp` from the three raw sheets, and updates `assets/meta.json` and the inline `META`. See [Assets](#assets). |
 | `tools/add_market.py`, `tools/raw/keepers.png`, `keeper_decor.png` | Adds the Keepers of the Crypt and their furnishings to `assets/props.webp` (the rows after row 2) and updates `assets/meta.json` and the inline `META`. See [Keepers of the Crypt](#keepers-of-the-crypt-the-market). |
@@ -1673,10 +1674,10 @@ The four keepers (Aldric, Borin, Mirela, Old Tobias) walk with the same pipeline
   views (the model's choice); it stays the same within each direction.
 - **Raw images used:** `tools/raw/keeper<N>_walk_<DIR>.png`. In the mirrored rows (SE, E, NE) what a keeper holds
   changes hands.
-- **Known flaw (keepers and the cast):** in the side and three-quarter views (SW, W, NW, and so SE, E, NE) frames
-  4–7 were painted like 0–3, so the same leg always leads and the walk glides instead of striding (found on the
-  hunter and huntress; the front and back views alternate roughly). Fixing it means painting those directions
-  again; see the sprite-animation skill, "What doesn't work".
+- **Known flaw (keepers and the cast, except the hunter):** in the side and three-quarter views (SW, W, NW, and
+  so SE, E, NE) frames 4–7 were painted like 0–3, so the same leg always leads and the walk glides instead of
+  striding; the front and back views alternate only roughly. The hunter has been redone (see The cast); the
+  others still have it.
 - **Cost:** 21 images, about $1.58.
 
 #### The cast (villagers and nobles)
@@ -1709,6 +1710,25 @@ Eight more walking characters, so far only for the sandbox's character viewer: a
   were made again with "in ALL 8 frames her RIGHT hand … grips the wooden handle of a heavy iron smith's hammer …
   clearly visible in every frame".
 - **Cost:** 2 design sheets and 43 walk images, about $3.45 (OpenAI).
+- **The hunter, redone** (Google `gemini-3.1-flash-image` `edit`, 1K, 4:3, about $0.62 for 9 images), because his
+  OpenAI sheet had the stride flaw above. The inputs were the guide, `ref_hunter` (the design crop) and the first
+  OpenAI SW frame; the prompt (built per view) names the legs **near** and **far** in the side views and spells out
+  every frame, with "5: the FAR leg far forward … the NEAR leg far BACK … the OPPOSITE of frame 1, NOT a copy of
+  it" and "frames 5–8 must look clearly different from frames 1–4: the legs have swapped places".
+  - **W** and **NW** came out right at once (W: in a profile the halves share a silhouette, so it was checked by
+    which boot overlaps the other; NW: `stride_check.py`). W kept flat grey guide hands in two frames, removed with
+    a second edit ("repaint every flat light grey hand as … a dark brown leather glove … change nothing else").
+  - **SW** was right except frame 0, which copied frame 4's wide stance; it was fixed from the image itself by
+    using frame 1 (the next moment, the same leg arrangement) in its place. A second try, given a W frame as the
+    look reference, mixed profile figures into the three-quarter view and was not used.
+  - **S** (front view): two tries kept both feet at nearly the same height, with the same foot slightly lower in
+    almost every frame, despite describing the feet by image side ("the foot on the RIGHT side of the image … is
+    clearly LOWER"). The S row was put together from the two tries' frames by `stride_check`'s *low* measure: the
+    four frames whose right-side foot is lower for frames 0–2 and 7, the four whose left-side foot is lower for
+    3–6 (all from the second try but frame 7, from the first; the second try's frame 0, which lost the bow, unused).
+  - **N** (back view): the second try (the feet described by image side) alternates; the first did not.
+  - `tools/stride_check.py` passes all five rows; the old OpenAI SW, W and NW fail it.
+  - The look is Gemini's: a little cleaner and more saturated than the other OpenAI-made characters.
 
 #### Skeleton and ghoul
 

diff --git a/.claude/skills/sprite-animation/SKILL.md b/.claude/skills/sprite-animation/SKILL.md
@@ -38,6 +38,15 @@ its key files into this public repo. Only call it by path from the notes repo.
   outright that frame 5 is the opposite of frame 1 ("the near leg is BEHIND, the far leg in front, partly hidden
   by the near one") and must not be a copy; then reject the image if it fails the check below and try again.
   Always check this before building (see Verifying).
+  **Result (the hunter, redone with Gemini):** the near/far wording worked for W and NW at once, and for SW except
+  one frame. The front view (S) did not alternate with any wording (left/right, or "the foot on the RIGHT side of
+  the image is clearly LOWER"); the back view (N) did with the image-side wording. What fixed S was assembling the
+  row from two attempts' frames, choosing each frame by which foot is lower. A single wrong frame can also be
+  replaced by its neighbour with the same leg arrangement. Repainting with Gemini a character first made with
+  OpenAI changes its look a little: redo all five directions, not just the broken ones.
+- **The look reference must be in a similar view.** Giving a side-view (W) frame as the look reference for a
+  three-quarter (SW) sheet made the model paint some figures in profile (and drop the bow). Use the first frame of
+  the SW sheet (or the front-view design) as the reference for every other direction.
 - **Coloured guide limbs** (blue left, orange right) leak into the art as blue and orange armour.
 - **"Make the arms swing"** without per-frame detail gives stiff, hanging arms even if the guide swings them.
 - **A long shared design reference is not enough** to keep the design: without an explicit design paragraph
@@ -135,9 +144,12 @@ its key files into this public repo. Only call it by path from the notes repo.
 - Preview each sheet on a dark background with the ground point marked in every cell, and look at it.
   Check feet on the marker, no clipping, consistent size between directions, and correct facing per row.
 - Check the raw images for leftover flat-grey guide pieces before building.
-- **Check the stride in every direction:** put frames 0–3 above 4–7 at 3× size, legs only, and confirm that the
-  leading leg in frame 0 is the trailing one in frame 4 (near vs far, the boots' overlap), and the same for 1/5, 2/6
-  and 3/7. If the two rows look alike, the direction must be made again (see "What doesn't work").
+- **Check the stride in every direction:** `python tools/stride_check.py <CHAR> <DIR> <raw.png>` (in
+  martin/dungeon-crawler-01) compares each painted frame with the guide: the feet's spread in the three-quarter
+  and side views, which foot is lower in the front and back views, and marks frames that copy the other half.
+  A profile (W) has the same silhouette in both halves, so also look: frames 0–3 above 4–7 at 3× size, legs only,
+  and confirm that the leg in front in frame 0 (the near one, by which boot overlaps the other) is behind in
+  frame 4, and so on. If a direction fails, make it again (see "What doesn't work").
 - Rebuild an existing sheet after refactoring the tool and diff it against the old one (expect only
   sub-pixel differences).
 - Run the game headless (Playwright with `channel: 'msedge'`, served by `python -m http.server`), make
